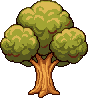
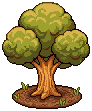
deploy jue 30/07/2026  9:55:21,02

diff --git a/public/game/ui.js b/public/game/ui.js
@@ -16,7 +16,7 @@ const OV_REFRESH = { "ov-inv": () => refreshInv(), "ov-skills": () => refreshSki
   "ov-cofre": () => refreshChest(),
   "ov-config": () => refreshConfig(), "ov-lb": () => refreshLb(), "ov-daily": () => refreshDaily() };
 // los overlays NO bloquean el juego: podés seguir moviéndote/interactuando con la ventana abierta
-function openOv(id) { const e = $(id); if (!e) return; e.classList.add("show"); if (OV_REFRESH[id]) OV_REFRESH[id](); }
+function openOv(id) { const e = $(id); if (!e) return; e.classList.add("show"); if (window.sfx) sfx("click"); if (OV_REFRESH[id]) OV_REFRESH[id](); }
 function closeOv(id) { const e = $(id); if (e) e.classList.remove("show"); }
 function closeAllOv() { document.querySelectorAll(".ov.show").forEach(e => e.classList.remove("show")); }
 
@@ -35,7 +35,7 @@ function itemView(d) {
     if (d.key === "bow") return { sprite: "bow", emoji: "🏹", label: "Arco · durabilidad " + toolDur("bow") + "/" + TOOL_DEF.bow.max, dur: Math.round(toolDur("bow") / TOOL_DEF.bow.max * 100) };
     return { sprite: "hoe", emoji: "🪝", label: "Azada", dur: null };
   }
-  if (d.kind === "pick") { const pd = PICK_DEF[d.key]; const glow = d.key === "diamond" ? "glow-cyan" : (d.key === "netherite" ? "glow-fire" : ""); return { sprite: pd.sprite, emoji: "⛏", glow, label: pd.label + " · durabilidad " + (G.picks.dur[d.key] || 0) + "/" + pd.dur, dur: Math.round((G.picks.dur[d.key] || 0) / pd.dur * 100) }; }
+  if (d.kind === "pick") { const pd = PICK_DEF[d.key]; const glow = d.key === "diamond" ? "glow-cyan" : (d.key === "netherite" ? "glow-fire" : (d.key === "gold" ? "glow-gold" : "")); return { sprite: pd.sprite, emoji: "⛏", glow, label: pd.label + " · durabilidad " + (G.picks.dur[d.key] || 0) + "/" + pd.dur, dur: Math.round((G.picks.dur[d.key] || 0) / pd.dur * 100) }; }
   if (d.kind === "res") return { sprite: resSprite(d.key), emoji: RES_EMOJI[d.key], label: RES_LABEL[d.key], dur: null };
   if (d.kind === "seed") { const cd = CROP_DEF[d.key]; return { sprite: "seed_" + d.key, emoji: cd.emoji, label: cd.label + " (semilla)", dur: null }; }
   if (d.kind === "fish") { const f = FISH_DEF[d.key]; const glow = { raro: "glow-blue", epico: "glow-purple", legendario: "glow-gold" }[d.key] || ""; return { sprite: f ? f.sprite : null, emoji: f ? f.emoji : "🐟", glow, label: f ? f.label : "Pez", dur: null }; }
@@ -104,7 +104,7 @@ function renderInvExpand() {
   if (!nc) { el.innerHTML = '<span class="exmax">Bolsa al máximo (' + invSlots() + ')</span>'; return; }
   const label = nc.type === "res" ? Object.keys(nc.cost).map(k => resIc(k) + nc.cost[k]).join(" ") : coinIc("plata") + " " + fmt(nc.cost);
   const aff = nc.type === "res" ? canAfford(nc.cost) : G.plata >= nc.cost;
-  el.innerHTML = '<button class="green sm" id="inv-expbtn" ' + (aff ? "" : "disabled") + '>Ampliar +6 · ' + label + "</button>";
+  el.innerHTML = '<button class="green sm" id="inv-expbtn" ' + (aff ? "" : "disabled") + '>Ampliar +5 · ' + label + "</button>";
   const b = $("inv-expbtn"); if (b) b.onclick = expandInv;
 }
 
@@ -205,6 +205,7 @@ function trashInfo(d) {
 }
 // tirar una pila de recursos/semillas/pescados (las herramientas no se tiran)
 function trashStack(d) {
+  if (window.sfx) sfx("trash");
   if (d.kind === "res")  { const n = Math.min(99, Math.floor(G.res[d.key] || 0));  if (n <= 0) return; G.res[d.key] -= n;  toast("🗑 Tiraste " + n + " " + RES_LABEL[d.key]); }
   else if (d.kind === "seed") { const n = Math.min(99, Math.floor(G.seeds[d.key] || 0)); if (n <= 0) return; G.seeds[d.key] -= n; toast("🗑 Tiraste " + n + " semillas"); }
   else if (d.kind === "fish") { const n = Math.min(99, Math.floor((G.fish && G.fish[d.key]) || 0)); if (n <= 0) return; G.fish[d.key] -= n; toast("🗑 Tiraste " + n + " peces"); }
@@ -217,7 +218,7 @@ function trashStack(d) {
 function refreshSkills() {
   $("sk-avg").innerHTML = "Nivel medio: <b>" + avgSkillLevel().toFixed(1) + "</b>";
   $("sk-grid").innerHTML = SKILL_DEFS.map(([k, ic, nm]) => { const inf = skillInfo(G.skills[k]); const pct = Math.round(inf.into / inf.need * 100); const soon = (k === "range" && G.skills[k] === 0) ? " · próximamente" : "";
-    return `<div class="skrow"><span class="ic">${ic}</span><div class="body"><div class="nm"><span>${nm}</span><span class="lv">Nv. ${inf.lvl}</span></div><div class="skbar"><i style="width:${pct}%"></i></div><div class="xp">${fmt(inf.into)}/${fmt(inf.need)} XP${soon}</div></div></div>`; }).join("");
+    return `<div class="skrow"><span class="ic"><img class="skic" src="${GF.spr("sk_" + k)}" onerror="this.outerHTML='${ic}'"></span><div class="body"><div class="nm"><span>${nm}</span><span class="lv">Nv. ${inf.lvl}</span></div><div class="skbar"><i style="width:${pct}%"></i></div><div class="xp">${fmt(inf.into)}/${fmt(inf.need)} XP${soon}</div></div></div>`; }).join("");
 }
 
 /* ---- equipo (slots estilo RPG; armadura/armas llegan con el combate) ---- */
@@ -569,7 +570,7 @@ function initHotbarDrag() {
 
 /* ---- arrastre universal: mantener clic izquierdo sobre una zona libre mueve la interfaz ---- */
 const DRAG_EXCLUDE = "button, input, textarea, select, a, [draggable=true], .hcell, .swi, #log, #chatpane, .slots, .forge-list, .mkt-list, .lblist, .curbtn, .shoptab, .lbtab, .ltab, .eqslot";
-function makeHoldDrag(el, saveKey) {
+function makeHoldDrag(el, saveKey, anchorBottom) {
   if (!el || el._holdDrag) return; el._holdDrag = true;
   let drag = null, started = false;
   el.addEventListener("pointerdown", (e) => {
@@ -596,7 +597,12 @@ function makeHoldDrag(el, saveKey) {
     drag = null;
     if (started) {
       el.classList.remove("uidrag");
-      if (saveKey) { const r = el.getBoundingClientRect(); try { localStorage.setItem(saveKey, JSON.stringify({ left: r.left, top: r.top })); } catch (er) {} }
+      const r = el.getBoundingClientRect();
+      if (anchorBottom) {   // panel de registro/chat: anclado por ABAJO para que al abrirse crezca hacia arriba
+        el.style.bottom = Math.max(4, window.innerHeight - r.bottom) + "px"; el.style.top = "auto";
+        if (saveKey) { try { localStorage.setItem(saveKey, JSON.stringify({ left: r.left, bottom: Math.max(4, window.innerHeight - r.bottom) })); } catch (er) {} }
+      }
+      else if (saveKey) { try { localStorage.setItem(saveKey, JSON.stringify({ left: r.left, top: r.top })); } catch (er) {} }
     }
     started = false;
   };
@@ -605,14 +611,20 @@ function makeHoldDrag(el, saveKey) {
   // restaurar posición guardada (por dispositivo) y re-encajar si cambia el tamaño de la ventana
   const clamp = () => { if (!el.style.top || el.style.top === "auto") return; const w = el.offsetWidth, h = el.offsetHeight; el.style.left = Math.max(4, Math.min(parseFloat(el.style.left) || 0, window.innerWidth - w - 4)) + "px"; el.style.top = Math.max(4, Math.min(parseFloat(el.style.top) || 0, window.innerHeight - h - 4)) + "px"; };
   if (saveKey) {
-    try { const s = JSON.parse(localStorage.getItem(saveKey) || "null"); if (s && typeof s.left === "number") { el.style.left = s.left + "px"; el.style.top = s.top + "px"; el.style.right = "auto"; el.style.bottom = "auto"; el.style.transform = "none"; clamp(); } } catch (e) {}
+    try { const s = JSON.parse(localStorage.getItem(saveKey) || "null");
+      if (s && typeof s.left === "number") {
+        el.style.left = s.left + "px"; el.style.right = "auto"; el.style.transform = "none";
+        if (typeof s.bottom === "number") { el.style.bottom = s.bottom + "px"; el.style.top = "auto"; }
+        else if (anchorBottom && typeof s.top === "number") { el.style.bottom = Math.max(4, window.innerHeight - s.top - el.offsetHeight) + "px"; el.style.top = "auto"; }   // migra posiciones viejas guardadas por arriba
+        else { el.style.top = s.top + "px"; el.style.bottom = "auto"; clamp(); }
+      } } catch (e) {}
     window.addEventListener("resize", clamp);
   }
 }
 function initUniversalDrag() {
   document.querySelectorAll(".ov .card").forEach(c => makeHoldDrag(c));          // todas las ventanas
   makeHoldDrag($("hotwrap"), "gf_hotpos");                                       // barra de acceso rápido
-  makeHoldDrag($("logpanel"), "gf_logpos");                                      // registro/chat
+  makeHoldDrag($("logpanel"), "gf_logpos", true);                                // registro/chat (anclado por abajo: se abre hacia ARRIBA)
 }
 
 /* ---- init ---- */
@@ -662,6 +674,10 @@ function initUI() {
   };
   const doFarmReset = () => { G.layout = {}; G.layoutPlots = {}; G.layoutPond = null; if (typeof saveFarm === "function") saveFarm(true); if (window.FARM && window.FARM.scene) window.FARM.scene.restart(); toast("↺ Granja restaurada"); };
   const ce = $("cfg-edit"); if (ce) ce.onclick = () => setEditMode(!GF.editMode);
+  // sonidos on/off (Configuración)
+  const sndBtn = $("cfg-sound");
+  const sndLabel = () => { if (sndBtn) sndBtn.textContent = (window.sfxIsOn && sfxIsOn()) ? "🔊 Sonidos: Sí" : "🔇 Sonidos: No"; };
+  if (sndBtn) { sndLabel(); sndBtn.onclick = () => { if (window.sfxOn) sfxOn(!(window.sfxIsOn && sfxIsOn())); sndLabel(); if (window.sfx) sfx("click"); }; }
   const cr = $("cfg-reset"); if (cr) cr.onclick = doFarmReset;
   const ed = $("edit-done"); if (ed) ed.onclick = () => setEditMode(false);
   const er = $("edit-reset"); if (er) er.onclick = doFarmReset;

diff --git a/public/game/farm.js b/public/game/farm.js
@@ -118,12 +118,19 @@ class FarmScene extends Phaser.Scene {
     // (los rótulos flotantes se quitaron: los edificios nuevos se distinguen solos
     //  y el aviso de interacción ya los nombra al acercarse)
 
-    // portal al Bosque (Fase D) — desactivado para la prueba sin bestiario
+    // portal al Bosque — ahora con su sprite cozy (arco de piedra con vórtice)
     if (window.ForestScene !== undefined || typeof ForestScene !== "undefined") {
-      const px = GF.WORLD_W - 34, py = GF.WORLD_H - 46;
-      this.add.text(px, py, "🌲", { fontSize: "26px" }).setOrigin(0.5, 1).setDepth(py);
-      this.add.text(px, py + 14, "Bosque", { fontFamily: "system-ui", fontSize: "11px", fontStyle: "bold", color: "#ffe08a", stroke: "#20301a", strokeThickness: 3 }).setOrigin(0.5, 0.5).setDepth(py);
-      this.portal = { type: "portal", cx: px, by: py };
+      const px = GF.WORLD_W - 40, py = GF.WORLD_H - 40;
+      let pspr = null;
+      if (this.textures.exists("portal")) {
+        pspr = this.add.image(px, py, "portal").setOrigin(0.5, 1).setDepth(py);
+        pspr.setScale((T * 1.4) / pspr.width);
+        this.tweens.add({ targets: pspr, scaleY: pspr.scaleY * 1.02, duration: 1400, yoyo: true, repeat: -1, ease: "Sine.easeInOut" });   // latido sutil del vórtice
+      } else {
+        this.add.text(px, py, "🌲", { fontSize: "26px" }).setOrigin(0.5, 1).setDepth(py);
+      }
+      this.add.text(px, py + 12, "Bosque", { fontFamily: "system-ui", fontSize: "11px", fontStyle: "bold", color: "#ffe08a", stroke: "#20301a", strokeThickness: 3 }).setOrigin(0.5, 0.5).setDepth(py);
+      this.portal = { type: "portal", cx: px, by: py, sprite: pspr, w: T * 1.4 };
     }
 
     // (la pesca ya no usa un objeto en el piso; se pesca al acercarse al borde de la laguna)
@@ -303,6 +310,7 @@ class FarmScene extends Phaser.Scene {
         o.sprite.setPosition(o.origCx, o.origBy).setDepth(o.origBy);
         if (o.shadow) o.shadow.setPosition(o.origCx, o.origBy - 3).setDepth(o.origBy - 0.5);
         if (o.timer) o.timer.setPosition(o.origCx, o.origBy - T * 0.85);
+        if (o.flameFx) o.flameFx.setPosition(o.origCx - o.rw * 0.13, o.origBy - o.sprite.displayHeight * 0.30).setDepth(o.origBy + 1);
         toast("🚫 Ahí ya hay algo — elegí otra celda");
         this.dragObj = null; return;
       }
@@ -310,6 +318,7 @@ class FarmScene extends Phaser.Scene {
       o.sprite.setPosition(o.cx, o.by).setDepth(o.by);
       if (o.shadow) o.shadow.setPosition(o.cx, o.by - 3).setDepth(o.by - 0.5);
       if (o.timer) o.timer.setPosition(o.cx, o.by - T * 0.85);
+      if (o.flameFx) o.flameFx.setPosition(o.cx - o.rw * 0.13, o.by - o.sprite.displayHeight * 0.30).setDepth(o.by + 1);
       if (o.type === "cofre") { const c = G.chests && G.chests[o.chestIdx]; if (c) { c.col = leftCol; c.row = baseRow - 1; } }
       else { if (!G.layout) G.layout = {}; G.layout[o.i] = { cx: o.cx, by: o.by }; }
       this.rebuildCollisions();
@@ -349,6 +358,14 @@ class FarmScene extends Phaser.Scene {
     };
     const storeObj = this.objs.find(o => o.type === "store");
     if (storeObj) smokeFrom(storeObj, 0.26, 0xd8d2c4, () => true);                       // herrería: siempre
+    // fuego animado en la boca de la fragua (experimental — detalles jueves)
+    if (storeObj && this.textures.exists("flame_0")) {
+      const fx = storeObj.cx - storeObj.rw * 0.13, fy = storeObj.by - storeObj.sprite.displayHeight * 0.30;
+      const fl = this.add.sprite(fx, fy, "flame_0").setOrigin(0.5, 1).setDepth(storeObj.by + 1);
+      fl.setDisplaySize(11, 13);
+      if (this.anims.exists("flame")) fl.play("flame");
+      storeObj.flameFx = fl;   // por si se arrastra el edificio en edición
+    }
     const cocinaObj = this.objs.find(o => o.type === "cocina");
     if (cocinaObj) smokeFrom(cocinaObj, 0.20, 0xefe9db, () => true);                     // cocina: humo SIEMPRE (detalles jueves)
     if (cocinaObj) smokeFrom(cocinaObj, 0.20, 0xffffff, () => !!G.cooking);              // …y el doble de bocanadas mientras se cocina
@@ -522,6 +539,7 @@ class FarmScene extends Phaser.Scene {
       g.generateTexture("bobber", 9, 10); g.destroy();
     }
     if (this.bobber) { this.bobber.destroy(); this.bobber = null; }
+    if (window.sfx) sfx("cast");
     const b = this.add.image(this.hero.x, this.hero.y - 26, "bobber").setDepth(-988).setScale(1.6);
     this.bobber = b;
     this.tweens.add({ targets: b, x, y, duration: 420, ease: "Quad.easeIn", onComplete: () => {
@@ -535,6 +553,7 @@ class FarmScene extends Phaser.Scene {
 
   finishAction() {
     const a = this.action, o = a.o;
+    if (window.sfx) sfx({ chop: "chop", mine: "mine", plant: "plant", harvest: "harvest", fish: "splash", water: "splash" }[a.kind] || "click");
     if (a.kind === "chop") {
       const gr = Math.max(1, Math.round(3 * yieldMult() * chestBonus()));
       if (tryAddRes("madera", gr)) { useTool("axe"); addXp("crafting", 4); o.readyAt = nowMs() + CD.tree * 1000 * cdMult(); this.setObjTex(o, "tree_stump", GF.TILE * 0.48); log(`🪵 +${gr} Madera. 🪓 ${toolDur("axe")}/${TOOL_DEF.axe.max}`, "good"); toast("+" + gr + " 🪵"); refreshHud(); if (toolDur("axe") <= 0) { log("🪓 ¡El hacha se rompió! Reparala en la Herrería.", "bad"); toast("🪓 ¡Hacha rota!"); } }

diff --git a/public/index.html b/public/index.html
@@ -57,7 +57,7 @@
   .cost .miss{color:var(--red);font-weight:700} .cost b{color:var(--ink)}
   .lvlbar{height:12px;background:#eee4cc;border-radius:8px;overflow:hidden;border:1px solid var(--line);margin-top:10px}
   .lvlbar>i{display:block;height:100%;background:linear-gradient(90deg,var(--gold),var(--gold-deep));width:0%}
-  .slots{display:grid;grid-template-columns:repeat(6,1fr);gap:6px;margin-top:8px;max-height:340px;overflow:auto}
+  .slots{display:grid;grid-template-columns:repeat(5,1fr);gap:6px;margin-top:8px;max-height:340px;overflow:auto}
   .slot{aspect-ratio:1;background:#efe3c6;border:2px solid #d3c298;border-radius:8px;position:relative;display:flex;align-items:center;justify-content:center}
   .slot.filled{border-color:#c9b070}
   .slot img{width:90%;height:90%;object-fit:contain;image-rendering:pixelated}
@@ -117,7 +117,8 @@
   .mkt-row .vbtn{padding:6px 12px;font-size:13px;flex:0 0 auto}
   .skgrid{display:flex;flex-direction:column;gap:8px;max-height:60vh;overflow:auto}
   .skrow{display:flex;align-items:center;gap:11px;background:#faf3e2;border:1px solid var(--line);border-radius:10px;padding:8px 11px}
-  .skrow .ic{font-size:22px;width:26px;text-align:center;flex:0 0 auto}
+  .skrow .ic{font-size:22px;width:32px;text-align:center;flex:0 0 auto}
+  .skrow .ic .skic{width:30px;height:30px;object-fit:contain;image-rendering:pixelated;vertical-align:middle}
   .skrow .body{flex:1;min-width:0}
   .skrow .nm{font-weight:700;font-size:13px;display:flex;justify-content:space-between}
   .skrow .nm .lv{color:var(--gold-deep)}
@@ -278,6 +279,21 @@
   /* inventario −20% (detalles jueves) */
   #ov-inv .card{font-size:12px}
   #ov-inv .slots{gap:5px;max-height:272px}
+  /* registro/chat, toasts y prompt con la misma madera */
+  .logpanel{border:10px solid transparent;border-image:url("assets/ui/panel_wood.png?a=4") 23 round;background:#a8622e url("assets/ui/wood_bg.png?a=5") repeat;background-size:220px auto;background-clip:border-box;border-radius:10px;image-rendering:pixelated}
+  .loghead{background:rgba(58,40,16,.55);color:#fff;text-shadow:0 1px 0 rgba(0,0,0,.5)}
+  .ltab{color:#f0e0b8}
+  .ltab.active{color:#ffe08a;background:rgba(58,40,16,.6)}
+  .logmin{color:#f0e0b8}
+  #log .l{background:#f2e5c4;border:2px solid #d9c290;color:#241d10}
+  #log .l.good{background:#e6ecc6;border-color:#9fbf72;color:#2f4a1c}
+  #log .l.bad{background:#f2d3c4;border-color:#d08a6a;color:#5a2517}
+  #log .l.gold{background:#f4e6b5;border-color:#d4ab4a;color:#6a4a10}
+  #chat-msgs .cm{color:#fff;text-shadow:0 1px 0 rgba(0,0,0,.4)}
+  #chat-msgs .cm b{color:#ffe08a}
+  .chatbar input{background:#f2e5c4;border:2px solid #d9c290;color:#241d10}
+  #toast{background:#b5793f url("assets/ui/badge_bg.png?a=1") repeat;background-size:132px auto;background-clip:border-box;border:9px solid transparent;border-image:url("assets/ui/badge_wood.png") 26 round;border-radius:0;color:#fff;text-shadow:0 1px 0 rgba(0,0,0,.55);image-rendering:pixelated}
+  #prompt{background:#b5793f url("assets/ui/badge_bg.png?a=1") repeat;background-size:132px auto;background-clip:border-box;border:8px solid transparent;border-image:url("assets/ui/badge_wood.png") 26 round;border-radius:0;color:#fff;text-shadow:0 1px 0 rgba(0,0,0,.5);image-rendering:pixelated}
   /* barra de scroll de madera */
   ::-webkit-scrollbar{width:10px;height:10px}
   ::-webkit-scrollbar-track{background:rgba(138,102,50,.16);border-radius:6px}
@@ -495,6 +511,10 @@
       <div class="row"><button class="green" id="cfg-login" style="display:none">Conectar</button><button class="ghost sm" id="cfg-logout" style="display:none">Cerrar sesión</button></div>
     </div>
     <div class="cfgsec">
+      <h4>🔊 Sonido</h4>
+      <div class="row"><button class="ghost sm" id="cfg-sound">🔊 Sonidos: Sí</button></div>
+    </div>
+    <div class="cfgsec">
       <h4>✏ Editar granja</h4>
       <p>Colocar y mover objetos por celda llega en otra fase.</p>
       <div class="row"><button class="green" id="cfg-edit">Modo edición</button><button class="ghost sm" id="cfg-reset">Restaurar</button></div>
@@ -578,7 +598,7 @@
   /* Cargador con reintentos: el server free de Render a veces corta conexiones.
      Carga los scripts del juego EN FILA (uno por vez) y reintenta cada uno hasta 8 veces. */
   (function () {
-    const files = ["game/config.js","game/state.js","game/save.js","game/ui.js","game/boot.js",
+    const files = ["game/config.js","game/audio.js","game/state.js","game/save.js","game/ui.js","game/boot.js",
                    "game/farm.js","game/forest.js","game/plaza.js","game/main.js","game/update.js"];
     let i = 0;
     function next(retry) {

diff --git a/public/game/state.js b/public/game/state.js
@@ -1,6 +1,6 @@
 /* Golden Farm · estado del juego + economía (sin DOM ni canvas) */
 window.GF = window.GF || {};
-GF.spr = (k) => "assets/farm/" + k + ".png?a=4";   // ?a=N rompe el caché de los íconos cuando cambia el arte
+GF.spr = (k) => "assets/farm/" + k + ".png?a=5";   // ?a=N rompe el caché de los íconos cuando cambia el arte (a=5: porciones de mineral + skills)
 
 // --- estado principal (con algunos recursos de arranque para probar los menús) ---
 const G = {
@@ -102,7 +102,7 @@ function addXp(sk, amt) {
   const before = skillInfo(G.skills[sk]).lvl;
   G.skills[sk] += amt;
   const after = skillInfo(G.skills[sk]).lvl;
-  if (after > before) { log(`📈 ${SKILL_NAME[sk]} subió a nivel ${after}.`, "good"); toast("📈 " + SKILL_NAME[sk] + " nivel " + after); }
+  if (after > before) { log(`📈 ${SKILL_NAME[sk]} subió a nivel ${after}.`, "good"); toast("📈 " + SKILL_NAME[sk] + " nivel " + after); if (window.sfx) sfx("level"); }
   if (isOpen("ov-skills")) refreshSkills();
 }
 
@@ -262,6 +262,7 @@ function checkCooking() {
 function eatDish(id) {
   const r = RECIPE_DEF[id]; if (!r || !G.dishes || (G.dishes[id] || 0) <= 0) return;
   G.dishes[id]--;
+  if (window.sfx) sfx("eat");
   G.hp = Math.min(G.hpMax, G.hp + r.heal);
   if (r.buff) addBuff(r.buff.type, r.buff.label, r.buff.mult, r.buff.dur);
   log(r.emoji + " Comiste " + r.label + ". " + r.desc, "gold"); toast(r.emoji + " ¡Ñam!");
@@ -345,8 +346,8 @@ function useTool(id) { const d = toolDur(id); if (d <= 0) return false; G.tools[
 function repairTool(id) { const td = TOOL_DEF[id]; if (!td) return; if (toolDur(id) >= td.max) { toast("Ya está al 100%"); return; } if (!canAfford(td.repair)) { toast("Te faltan materiales para reparar"); return; } payCost(td.repair); G.tools[id] = td.max; log("🔧 Reparaste " + td.label + " (100%).", "good"); toast("🔧 Reparado"); refreshForge(); if (isOpen("ov-equip")) refreshEquip(); if (isOpen("ov-inv")) refreshInv(); }
 
 // --- inventario (base + filas extra) ---
-const INV_BASE = 30, INV_MAX_ROWS = 5;   // 30 base (5 filas de 6), hasta +5 filas más
-function invSlots() { return INV_BASE + (G.invRows || 0) * 6; }
+const INV_BASE = 20, INV_MAX_ROWS = 5;   // 20 base (4 filas de 5), hasta +5 filas más
+function invSlots() { return INV_BASE + (G.invRows || 0) * 5; }
 function nextInvCost() {
   const r = G.invRows || 0;
   if (r >= INV_MAX_ROWS) return null;
@@ -358,7 +359,7 @@ function expandInv() {
   if (nc.type === "res") { if (!canAfford(nc.cost)) { toast("Te faltan minerales"); return; } payCost(nc.cost); }
   else { if (G.plata < nc.cost) { toast("Te falta plata"); return; } G.plata -= nc.cost; }
   G.invRows = (G.invRows || 0) + 1;
-  log("🎒 Ampliaste la bolsa (+6 espacios).", "good"); toast("🎒 +6 espacios");
+  log("🎒 Ampliaste la bolsa (+5 espacios).", "good"); toast("🎒 +5 espacios");
   refreshInv(); refreshHud();
 }
 function invStacks() {
@@ -451,6 +452,7 @@ function sellItem(res) {
   if (q <= 0) { toast("Poné una cantidad"); return; }
   if (marketCur === "plata") { const t=q*PRICE[res]; G.plata+=t; G.res[res]-=q; log(`🪙 Vendiste ${q} ${RES_LABEL[res]} por ${t} de plata.`); toast("+"+t+" plata"); }
   else { const g=Math.floor(q*PRICE[res]/10); if (g<1){ toast("Muy poca cantidad para $Golden"); return; } G.res[res]-=q; G.golden+=g; log(`✨ Vendiste ${q} ${RES_LABEL[res]} por ${g} $Golden.`,"gold"); toast("+"+g+" $Golden"); }
+  if (window.sfx) sfx("coin");
   refreshMarket(); refreshHud();
 }
 

diff --git a/public/game/audio.js b/public/game/audio.js
@@ -1,0 +1,45 @@
+/* Golden Farm · SFX procedurales con WebAudio — sin archivos externos (detalles: pilar de audio, versión básica) */
+(function () {
+  let ctx = null, on = true;
+  try { on = localStorage.getItem("gf_sound") !== "0"; } catch (e) {}
+  function ac() {
+    if (!ctx) { try { ctx = new (window.AudioContext || window.webkitAudioContext)(); } catch (e) { return null; } }
+    if (ctx && ctx.state === "suspended") ctx.resume();
+    return ctx;
+  }
+  function env(g, t0, a, d, v) { g.gain.setValueAtTime(0, t0); g.gain.linearRampToValueAtTime(v, t0 + a); g.gain.exponentialRampToValueAtTime(0.0001, t0 + a + d); }
+  function tone(freq, type, a, d, v, slide) {
+    const c = ac(); if (!c) return;
+    const o = c.createOscillator(), g = c.createGain();
+    o.type = type; o.frequency.setValueAtTime(freq, c.currentTime);
+    if (slide) o.frequency.exponentialRampToValueAtTime(slide, c.currentTime + a + d);
+    env(g, c.currentTime, a, d, v);
+    o.connect(g).connect(c.destination); o.start(); o.stop(c.currentTime + a + d + 0.05);
+  }
+  function noise(d, v, fLow, fHigh) {
+    const c = ac(); if (!c) return;
+    const n = Math.floor(c.sampleRate * d), b = c.createBuffer(1, n, c.sampleRate), ch = b.getChannelData(0);
+    for (let i = 0; i < n; i++) ch[i] = Math.random() * 2 - 1;
+    const s = c.createBufferSource(); s.buffer = b;
+    const f = c.createBiquadFilter(); f.type = "bandpass"; f.frequency.value = (fLow + fHigh) / 2; f.Q.value = 0.9;
+    const g = c.createGain(); env(g, c.currentTime, 0.005, d, v);
+    s.connect(f); f.connect(g); g.connect(c.destination); s.start();
+  }
+  const S = {
+    chop()    { noise(0.09, 0.45, 300, 900); tone(120, "square", 0.005, 0.08, 0.22, 60); },          // hachazo seco
+    mine()    { tone(1700, "triangle", 0.002, 0.07, 0.18, 900); noise(0.05, 0.3, 2000, 5000); },      // clink de pico
+    cast()    { tone(520, "sine", 0.01, 0.2, 0.14, 170); },                                           // lanzar la caña
+    splash()  { noise(0.24, 0.28, 600, 2200); },                                                      // agua
+    plant()   { tone(300, "sine", 0.01, 0.09, 0.18, 430); },                                          // plantar
+    harvest() { tone(520, "triangle", 0.005, 0.1, 0.22, 800); },                                      // cosechar
+    coin()    { tone(988, "square", 0.002, 0.09, 0.13); setTimeout(() => tone(1319, "square", 0.002, 0.12, 0.13), 60); },
+    click()   { tone(700, "square", 0.001, 0.035, 0.1, 500); },                                       // abrir ventana
+    eat()     { tone(260, "sine", 0.012, 0.12, 0.18, 170); },                                         // comer plato
+    level()   { [523, 659, 784, 1047].forEach((f, i) => setTimeout(() => tone(f, "triangle", 0.005, 0.16, 0.18), i * 90)); },
+    hit()     { noise(0.07, 0.35, 150, 600); },                                                       // golpe
+    trash()   { noise(0.12, 0.26, 200, 800); },                                                       // tirar a la papelera
+  };
+  window.sfx = function (name) { if (!on) return; try { if (S[name]) S[name](); } catch (e) {} };
+  window.sfxOn = function (v) { on = !!v; try { localStorage.setItem("gf_sound", on ? "1" : "0"); } catch (e) {} };
+  window.sfxIsOn = function () { return on; };
+})();

diff --git a/public/game/forest.js b/public/game/forest.js
@@ -8,12 +8,22 @@ class ForestScene extends Phaser.Scene {
     this.W = 32 * T; this.H = GF.WORLD_H;   // bosque más ancho que la granja
     GF.uiOpen = false;
 
-    // piso oscuro del bosque
+    // piso del bosque: damero de verdes OSCUROS (como la granja pero sombrío) + decoraciones
     const g = this.add.graphics().setDepth(-1000);
-    g.fillStyle(0x3f6b2e, 1).fillRect(0, 0, this.W, this.H);
-    g.lineStyle(1, 0x18300f, 0.10);
-    for (let x = 0; x <= this.W; x += T) { g.beginPath(); g.moveTo(x, 0); g.lineTo(x, this.H); g.strokePath(); }
-    for (let y = 0; y <= this.H; y += T) { g.beginPath(); g.moveTo(0, y); g.lineTo(this.W, y); g.strokePath(); }
+    const cols = Math.ceil(this.W / T), rows = Math.ceil(this.H / T);
+    for (let cy = 0; cy < rows; cy++) for (let cx = 0; cx < cols; cx++) {
+      g.fillStyle((cx + cy) % 2 === 0 ? 0x2f4a20 : 0x2a431c, 1);
+      g.fillRect(cx * T, cy * T, T, T);
+    }
+    // matas y piedritas deterministas (LCG) para que no se vea plano
+    let seed = 20260731;
+    const rnd = () => { seed = (seed * 1664525 + 1013904223) >>> 0; return seed / 4294967296; };
+    for (let i = 0; i < 260; i++) {
+      const x = rnd() * this.W, y = rnd() * this.H, t = rnd();
+      if (t < 0.5) { g.fillStyle(0x223a16, 0.8); g.fillRect(x, y, 2, 4); g.fillRect(x + 3, y + 1, 2, 3); }        // mata oscura
+      else if (t < 0.8) { g.fillStyle(0x3a5527, 0.7); g.fillRect(x, y, 3, 2); }                                   // hierba
+      else { g.fillStyle(0x4a4438, 0.6); g.fillRect(x, y, 3, 3); }                                                // piedrita
+    }
     g.lineStyle(4, 0x22331a, 0.95).strokeRect(0, 0, this.W, this.H);
 
     // árboles decorativos (más densos a la derecha)
@@ -132,6 +142,7 @@ class ForestScene extends Phaser.Scene {
   }
 
   hitMonster(m, dmg, skill) {
+    if (window.sfx) sfx("hit");
     if (dmg == null) { dmg = swordDmg(); skill = "sword"; }
     if (skill === "sword" && G.gear.arma === "sword" && toolDur("sword") > 0) { useTool("sword"); if (toolDur("sword") <= 0) { log("⚔ ¡La espada se rompió! Reparala en la Herrería.", "bad"); toast("⚔ ¡Espada rota!"); } }
     m.hp -= dmg;

diff --git a/public/game/boot.js b/public/game/boot.js
@@ -26,7 +26,10 @@ class BootScene extends Phaser.Scene {
     L.push(["withered", P + "withered.png?v=2"]);      // cultivo marchito cozy
     // etapas intermedias (la verdura asomando al 50% del crecimiento)
     if (typeof CROP_ORDER !== "undefined") CROP_ORDER.forEach(k => L.push(["cropm_" + k, P + "cropm_" + k + ".png?v=3"]));
-    ["tree","pond"].forEach(k => L.push([k, P + k + ".png?v=2"]));   // arte cozy nuevo
+    L.push(["tree", P + "tree.png?v=3"]);   // v3: árbol con efecto de plantado (detalles jueves)
+    L.push(["pond", P + "pond.png?v=2"]);
+    L.push(["portal", P + "portal.png"]);   // portal al Bosque
+    for (let i = 0; i < 9; i++) L.push(["flame_" + i, P + "flame_" + i + ".png"]);   // fuego de la herrería
     // v3: nodos plantados en la tierra + estados dañados (intermedio del cooldown)
     ["node_stone","node_bronze","node_gold","node_diamond","node_netherite"]
       .forEach(k => { L.push([k, P + k + ".png?v=3"]); L.push([k + "_half", P + k + "_half.png"]); });
@@ -46,8 +49,8 @@ class BootScene extends Phaser.Scene {
   preload() {
     // ATLAS: todos los sprites del mundo en 2 archivos (mucho más liviano para el server free).
     // Si el atlas no llega, ensureAll() baja los archivos sueltos como respaldo.
-    this.load.image("__atlas", "assets/atlas.png?v=15");
-    this.load.json("__atlasmap", "assets/atlas.json?v=15");
+    this.load.image("__atlas", "assets/atlas.png?v=16");
+    this.load.json("__atlasmap", "assets/atlas.json?v=16");
 
     // barra de carga simple
     const w = this.scale.width, h = this.scale.height;
@@ -104,5 +107,7 @@ class BootScene extends Phaser.Scene {
       const ks = [0,1,2,3,4,5,6].map(i => "act_" + a + "_" + i);
       if (has(ks)) this.anims.create({ key: "act_" + a, frames: ks.map(k => ({ key: k })), frameRate: 10, repeat: -1 });
     });
+    const fk = [0,1,2,3,4,5,6,7,8].map(i => "flame_" + i);
+    if (has(fk)) this.anims.create({ key: "flame", frames: fk.map(k => ({ key: k })), frameRate: 10, repeat: -1 });
   }
 }
